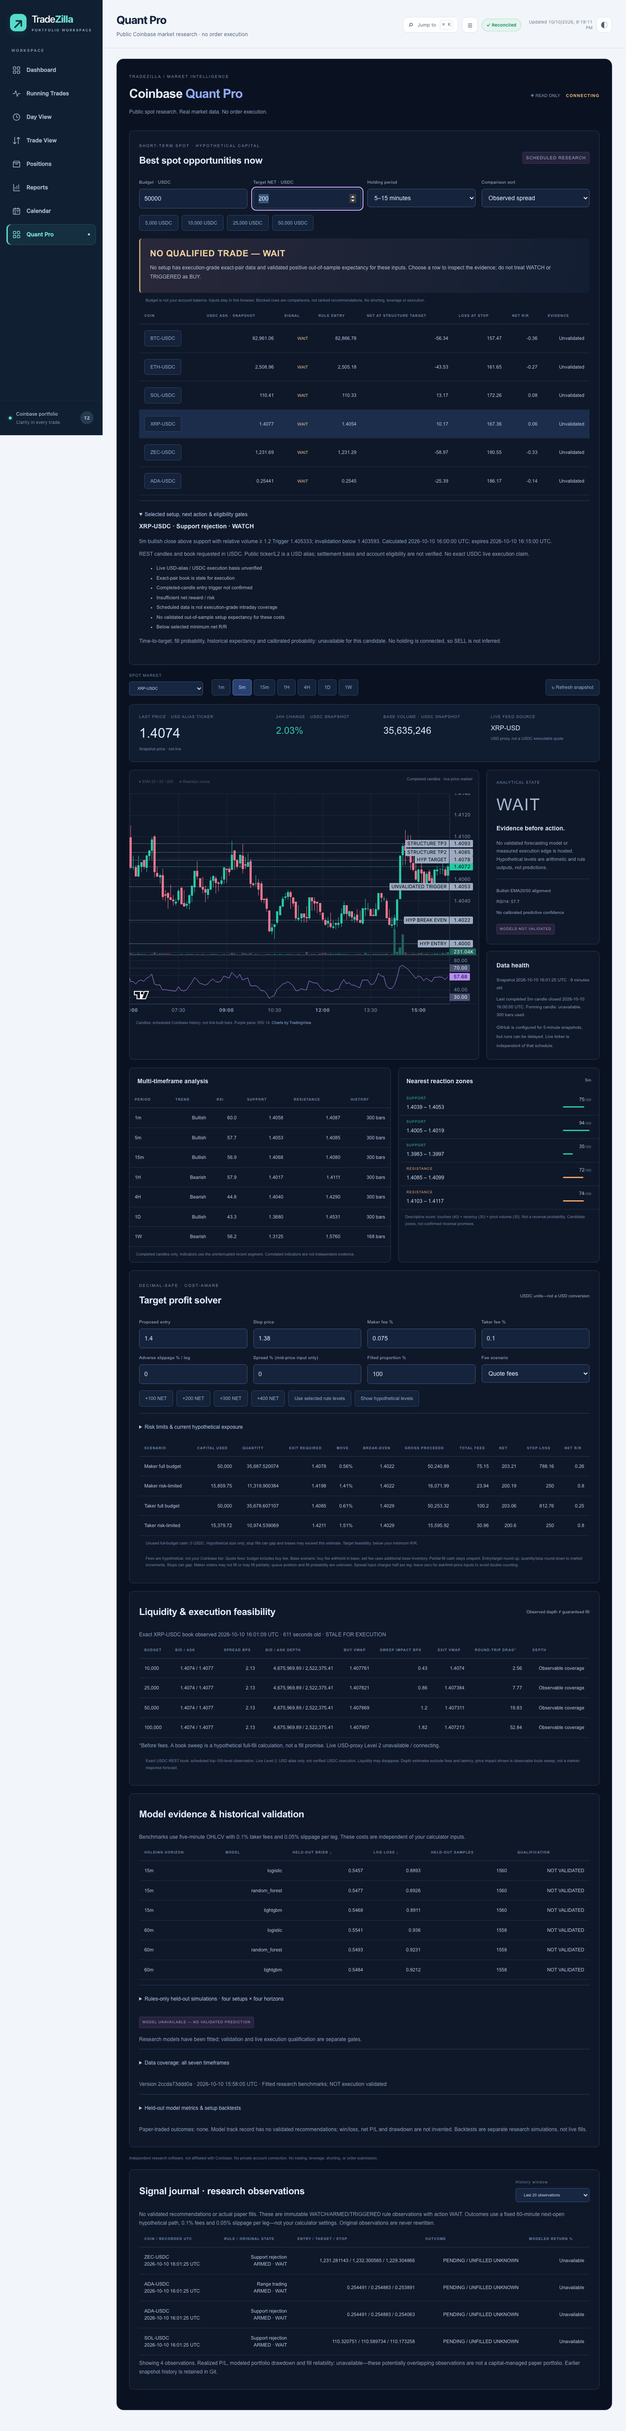
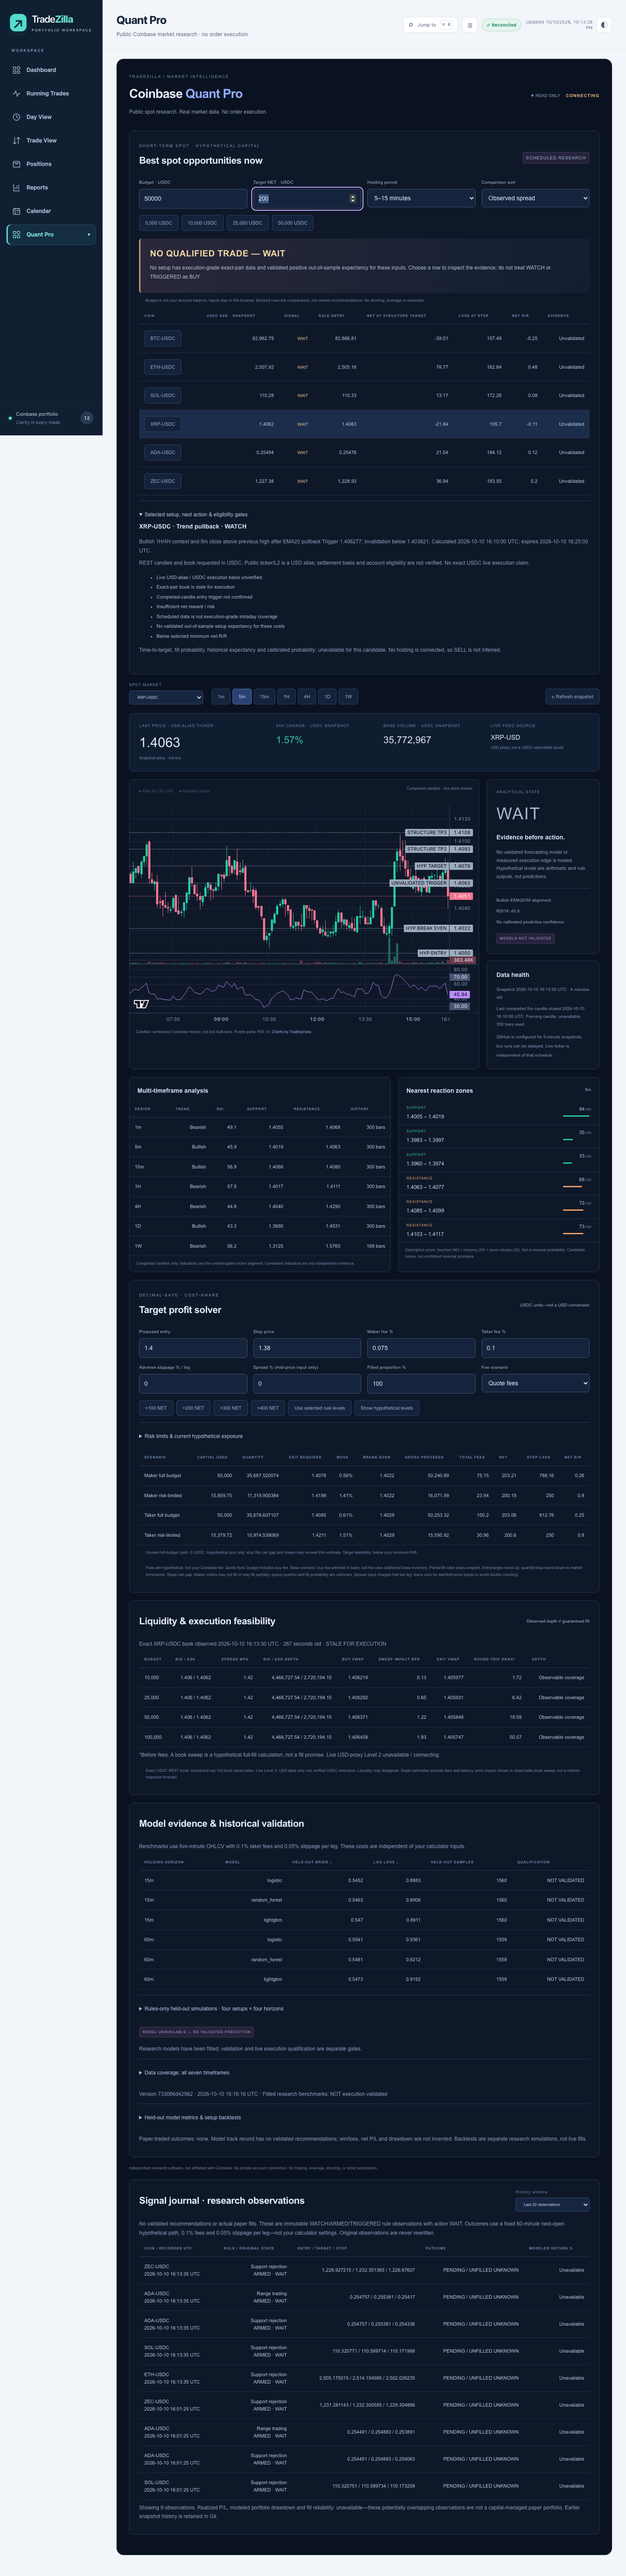
Harden planning limits and record verified cloud research deployment

diff --git a/docs/index.html b/docs/index.html
@@ -751,6 +751,7 @@ dialog::backdrop{background:#061426aa;backdrop-filter:blur(4px)}
 #quant-root td{font-variant-numeric:tabular-nums}
 @media(max-width:900px){#quant-root .qp-inputs{grid-template-columns:repeat(2,minmax(0,1fr))}}
 @media(max-width:650px){#quant-root .qp-scanner,#quant-root .qp-planner{padding:14px}#quant-root .qp-inputs input,#quant-root .qp-inputs select{font-size:16px}#quant-root #qp-frames{flex-wrap:wrap}#quant-root .qp-best strong{font-size:16px}}
+@media(max-width:650px){#quant-root .qp-scanner{display:flex;flex-direction:column}#quant-root .qp-scanner>*{order:4}#quant-root .qp-scanner>.qp-section-head{order:0}#quant-root .qp-scanner>.qp-best{order:1;margin-top:0}#quant-root .qp-scanner>.qp-inputs{order:2;margin-top:16px}#quant-root .qp-scanner>.qp-actions{order:3}}
 #quant-root{color:#e3ebfa;color-scheme:dark;font-family:Arial,Helvetica,sans-serif}
 #quant-root .qp-shell{background:#0a1221;border:1px solid #263651;border-radius:16px;padding:28px;overflow:hidden}
 #quant-root .qp-intro{display:flex;align-items:center;justify-content:space-between;gap:18px;margin-bottom:25px}
@@ -3364,6 +3365,7 @@ try { const theme = localStorage.getItem('tj-theme'); if (theme === 'light' || t
     const baseFee=p.feeCurrency==='base';
     const requested=floor(budget.div(executedEntry.mul(baseFee?1:d(1).plus(buy))),lot);
     const filled=floor(requested.mul(fill),lot), cost=filled.mul(executedEntry).mul(baseFee?1:d(1).plus(buy));
+    if((p.minBase&&filled.lt(p.minBase))||(p.minQuote&&cost.lt(p.minQuote)))throw Error('Hypothetical position is below the exchange minimum size.');
     const acquired=floor(filled.mul(baseFee?d(1).minus(buy):1),lot);
     const sellQty=baseFee?floor(acquired.div(d(1).plus(sell)),lot):acquired;
     if(sellQty.lte(0))throw Error('Budget/fill is below the product quantity increment.');
@@ -3407,6 +3409,7 @@ try { const theme = localStorage.getItem('tj-theme'); if (theme === 'light' || t
   function gates(p,c,math,liq,now,hold) {
     const reasons=[];
     if(!p.available||p.quote!=='USDC'||p.book?.product_id!==p.product_id)reasons.push('Exact USDC market/book not verified');
+    if(p.limit_only||p.post_only)reasons.push('Market restriction: taker execution unavailable');
     if(!p.basis_verified)reasons.push('Live USD-alias / USDC execution basis unverified');
     const bookAge=(now-Date.parse(p.book?.time))/1000;
     if(!Number.isFinite(bookAge)||bookAge< -5||bookAge>15)reasons.push('Exact-pair book is stale for execution');
@@ -3456,7 +3459,7 @@ try { const theme = localStorage.getItem('tj-theme'); if (theme === 'light' || t
     $('.qp-shell').insertAdjacentHTML('beforeend',`<section class="qp-panel qp-planner"><div class="qp-section-head"><h3>Signal journal · research observations</h3><label>History window<select id="qp-journal-window"><option value="20">Last 20 observations</option><option value="100">Last 100 observations</option></select></label></div><div id="qp-journal"></div></section>`);
     function product(){return snapshot?.products.find(p=>p.product_id===selected);}
     function candidate(p){return [...(p?.candidates||[])].sort((a,b)=>['TRIGGERED','ARMED','WATCH','INVALIDATED'].indexOf(a.state)-['TRIGGERED','ARMED','WATCH','INVALIDATED'].indexOf(b.state))[0];}
-    function input(p,fee=val('maker')){return {budget:val('budget'),entry:val('entry'),stop:val('stop'),target:val('target'),buyFee:fee,sellFee:fee,slippage:val('slip'),spread:val('spread'),fill:val('fill'),feeCurrency:val('fee-currency'),tick:p?.increment||'.0001',lot:p?.base_increment||'.00000001'};}
+    function input(p,fee=val('maker')){return {budget:val('budget'),entry:val('entry'),stop:val('stop'),target:val('target'),buyFee:fee,sellFee:fee,slippage:val('slip'),spread:val('spread'),fill:val('fill'),feeCurrency:val('fee-currency'),tick:p?.increment||'.0001',lot:p?.base_increment||'.00000001',minBase:p?.base_min_size,minQuote:p?.quote_min_size};}
     function useSetup(){const p=product(),c=candidate(p);if(!p)return;$('#qp-entry').value=c?.entry||p.book?.asks?.[0]?.price||p.price;$('#qp-stop').value=c?.stop||Number(p.price)*.98;render();}
     function limits(){return {risk:val('risk'),capital:val('cap'),exposure:val('exposure'),exposureUsed:val('exposure-used'),dailyLoss:val('daily'),lossUsed:val('loss-used'),active:val('active'),concurrent:val('concurrent')};}
     function overlay(){

diff --git a/journal/static/quant-workbench.js b/journal/static/quant-workbench.js
@@ -30,7 +30,7 @@
     $('.qp-shell').insertAdjacentHTML('beforeend',`<section class="qp-panel qp-planner"><div class="qp-section-head"><h3>Signal journal · research observations</h3><label>History window<select id="qp-journal-window"><option value="20">Last 20 observations</option><option value="100">Last 100 observations</option></select></label></div><div id="qp-journal"></div></section>`);
     function product(){return snapshot?.products.find(p=>p.product_id===selected);}
     function candidate(p){return [...(p?.candidates||[])].sort((a,b)=>['TRIGGERED','ARMED','WATCH','INVALIDATED'].indexOf(a.state)-['TRIGGERED','ARMED','WATCH','INVALIDATED'].indexOf(b.state))[0];}
-    function input(p,fee=val('maker')){return {budget:val('budget'),entry:val('entry'),stop:val('stop'),target:val('target'),buyFee:fee,sellFee:fee,slippage:val('slip'),spread:val('spread'),fill:val('fill'),feeCurrency:val('fee-currency'),tick:p?.increment||'.0001',lot:p?.base_increment||'.00000001'};}
+    function input(p,fee=val('maker')){return {budget:val('budget'),entry:val('entry'),stop:val('stop'),target:val('target'),buyFee:fee,sellFee:fee,slippage:val('slip'),spread:val('spread'),fill:val('fill'),feeCurrency:val('fee-currency'),tick:p?.increment||'.0001',lot:p?.base_increment||'.00000001',minBase:p?.base_min_size,minQuote:p?.quote_min_size};}
     function useSetup(){const p=product(),c=candidate(p);if(!p)return;$('#qp-entry').value=c?.entry||p.book?.asks?.[0]?.price||p.price;$('#qp-stop').value=c?.stop||Number(p.price)*.98;render();}
     function limits(){return {risk:val('risk'),capital:val('cap'),exposure:val('exposure'),exposureUsed:val('exposure-used'),dailyLoss:val('daily'),lossUsed:val('loss-used'),active:val('active'),concurrent:val('concurrent')};}
     function overlay(){

diff --git a/journal/static/quant-planner.js b/journal/static/quant-planner.js
@@ -12,6 +12,7 @@
     const baseFee=p.feeCurrency==='base';
     const requested=floor(budget.div(executedEntry.mul(baseFee?1:d(1).plus(buy))),lot);
     const filled=floor(requested.mul(fill),lot), cost=filled.mul(executedEntry).mul(baseFee?1:d(1).plus(buy));
+    if((p.minBase&&filled.lt(p.minBase))||(p.minQuote&&cost.lt(p.minQuote)))throw Error('Hypothetical position is below the exchange minimum size.');
     const acquired=floor(filled.mul(baseFee?d(1).minus(buy):1),lot);
     const sellQty=baseFee?floor(acquired.div(d(1).plus(sell)),lot):acquired;
     if(sellQty.lte(0))throw Error('Budget/fill is below the product quantity increment.');
@@ -55,6 +56,7 @@
   function gates(p,c,math,liq,now,hold) {
     const reasons=[];
     if(!p.available||p.quote!=='USDC'||p.book?.product_id!==p.product_id)reasons.push('Exact USDC market/book not verified');
+    if(p.limit_only||p.post_only)reasons.push('Market restriction: taker execution unavailable');
     if(!p.basis_verified)reasons.push('Live USD-alias / USDC execution basis unverified');
     const bookAge=(now-Date.parse(p.book?.time))/1000;
     if(!Number.isFinite(bookAge)||bookAge< -5||bookAge>15)reasons.push('Exact-pair book is stale for execution');

diff --git a/journal/static/app.css b/journal/static/app.css
@@ -738,6 +738,7 @@ dialog::backdrop{background:#061426aa;backdrop-filter:blur(4px)}
 #quant-root td{font-variant-numeric:tabular-nums}
 @media(max-width:900px){#quant-root .qp-inputs{grid-template-columns:repeat(2,minmax(0,1fr))}}
 @media(max-width:650px){#quant-root .qp-scanner,#quant-root .qp-planner{padding:14px}#quant-root .qp-inputs input,#quant-root .qp-inputs select{font-size:16px}#quant-root #qp-frames{flex-wrap:wrap}#quant-root .qp-best strong{font-size:16px}}
+@media(max-width:650px){#quant-root .qp-scanner{display:flex;flex-direction:column}#quant-root .qp-scanner>*{order:4}#quant-root .qp-scanner>.qp-section-head{order:0}#quant-root .qp-scanner>.qp-best{order:1;margin-top:0}#quant-root .qp-scanner>.qp-inputs{order:2;margin-top:16px}#quant-root .qp-scanner>.qp-actions{order:3}}
 #quant-root{color:#e3ebfa;color-scheme:dark;font-family:Arial,Helvetica,sans-serif}
 #quant-root .qp-shell{background:#0a1221;border:1px solid #263651;border-radius:16px;padding:28px;overflow:hidden}
 #quant-root .qp-intro{display:flex;align-items:center;justify-content:space-between;gap:18px;margin-bottom:25px}

diff --git a/journal/server.py b/journal/server.py
@@ -90,10 +90,10 @@ class Handler(BaseHTTPRequestHandler):
                 self._json(404, {"error": "unknown endpoint"})
                 return
 
-            if path == "/quant-data.json":
-                snapshot = os.path.join(HERE, '..', 'docs', 'quant-data.json')
+            if path in ("/quant-data.json", "/quant-research.json"):
+                snapshot = os.path.join(HERE, '..', 'docs', path.lstrip('/'))
                 if not os.path.isfile(snapshot):
-                    self._json(503, {'error': 'Run journal/quant_market.py to fetch public history'})
+                    self._json(503, {'error': 'Public research file unavailable; run the market or research worker'})
                     return
                 with open(snapshot, 'rb') as handle:
                     self._send(200, handle.read(), 'application/json; charset=utf-8')

diff --git a/coinbase-quant-pro/docs/UPGRADE.md b/coinbase-quant-pro/docs/UPGRADE.md
@@ -171,12 +171,28 @@ main. Existing Pages workflow deploys docs; the portfolio refresh subsequently
 updates all pages plus public market data. Dispatch the new research workflow
 for an immediate cloud training pass. Never stage DBs, credentials or user inputs.
 
-Local verification: 32 Python API tests, 13 browser-math/indicator tests, four
+Local verification: 32 Python API tests, 14 browser-math/indicator tests, four
 public-market/journal tests, eight route checks, and a Playwright UI suite testing
 six coins × seven frames, retained chart identity, solver, inputs, sorting,
 overlays, keyboard, mobile overflow, missing portfolio and failed snapshots.
 Live ticker plus L2 continuity test: one socket over 15 seconds, no page errors.
+All six public markets separately reached LIVE for ticker and USD-proxy L2.
+The browser suite also injects a WebSocket sequence gap and verifies reconnect.
 Screenshots: `upgrade-desktop.png`, `upgrade-mobile.png` (before/after retained).
+
+### Verified cloud deployment
+
+- Initial upgrade commit: `a97f6fd`; Pages deployment `38066708669` passed.
+- Five-minute refresh run `38066725379` passed public fetching, private portfolio
+  validation, publication, all three public-file hashes and all eight routes.
+- Daily research run `38066760277` passed in GitHub: tests, six-market training,
+  research-artifact upload, prepublication checks, deploy, hashes and eight live
+  routes. It completed in 2m57s. Research commit: `60a53d8`.
+- Training cadence: daily 03:23 UTC; market/portfolio cadence: existing five-minute
+  cron. Neither cadence guarantees punctual execution. No laptop is required.
+- All account/trading paths remain unchanged; new workers and stream processing
+  are public/read-only. Final minor hardening also enforces exchange minimum
+  sizes and reports limit-only/post-only restrictions.
 
 ## Honest remaining limitations
 
